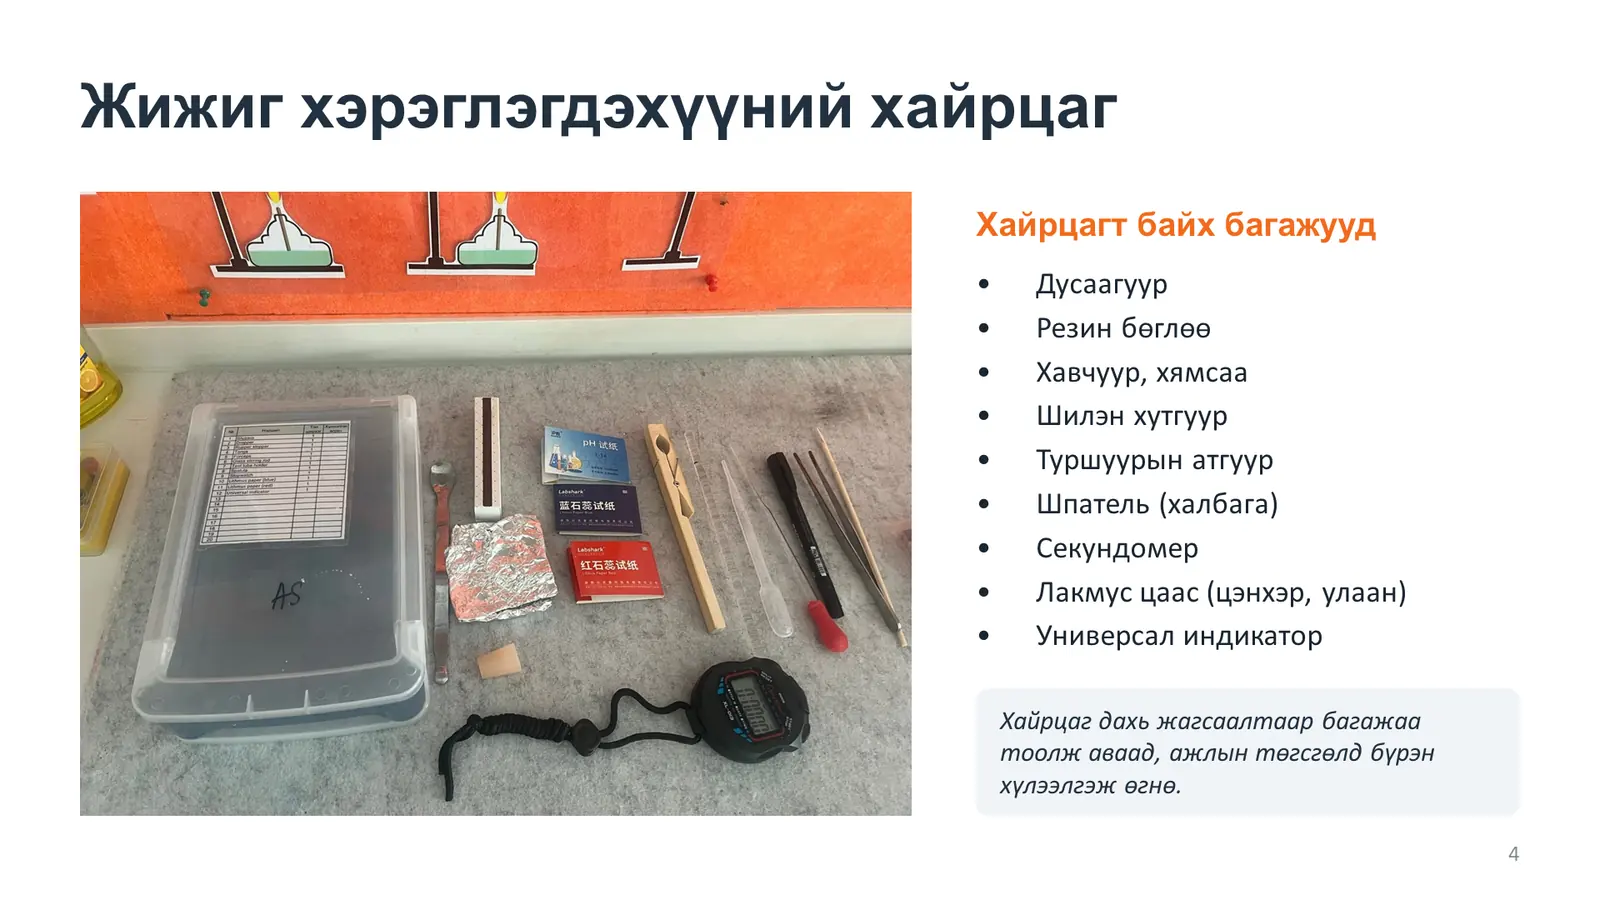
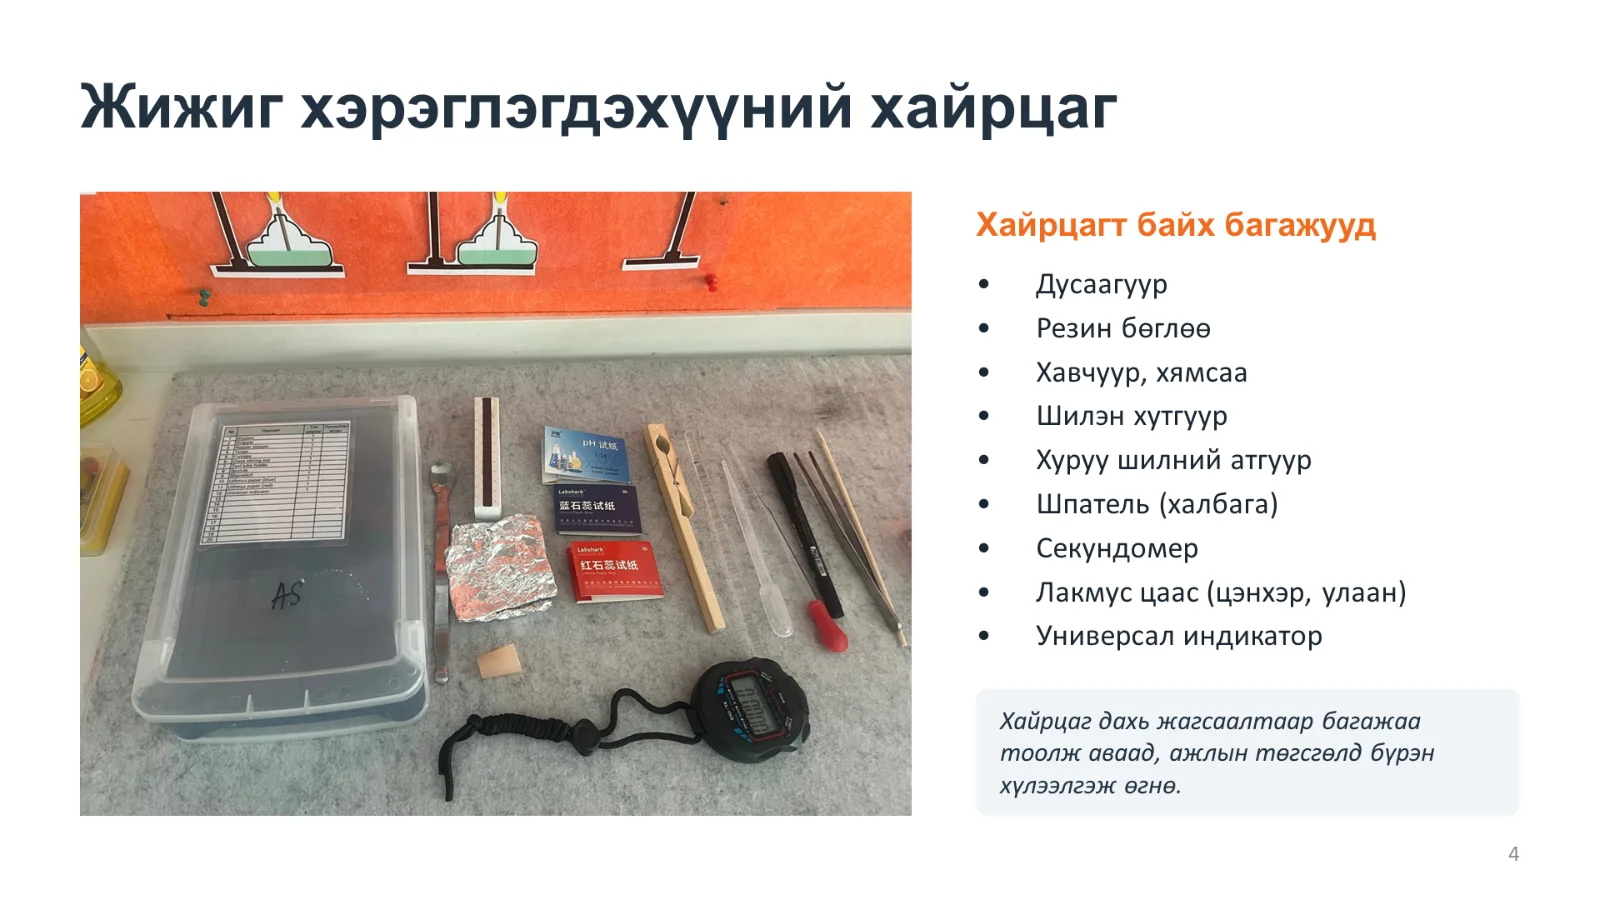
Say «хуруу шил» instead of «туршуур» in the lab safety rules

Changed region(s): [[0.625, 0.4978, 0.8125, 0.5289]]

diff --git a/src/exams/examSafety.ts b/src/exams/examSafety.ts
@@ -14,8 +14,8 @@ const slideText = [
   'Химийн лабораторийн аюулгүй ажиллагааны дүрэм. Сургуулийн химийн лабораторид мөрдөх журам.',
   'Лабораторид орохын өмнө. Зөвшөөрөлгүй орохгүй: багшийн зөвшөөрөлгүйгээр лабораторид орохгүй, туршилт эхлүүлэхгүй. Зааврыг уншина: туршилтын заавартай урьдчилан танилцаж, алхам бүрийг ойлгосон байна. Хоол, ундаа хориотой: лабораторид хоол идэх, ус уух, бохь зажлахыг хориглоно. Зөв хувцаслана: урт үсээ боож, хаалттай гутал өмсөнө, халаадаа заавал өмсөнө. Аюулгүйн хэрэгслээ мэд: нүд угаагуур, гал унтраагуур, гарц хаана байгааг мэдэж ав. Ширээгээ цэгцтэй байлга: ажлын ширээн дээр зөвхөн хэрэгтэй багаж, заавраа тавина.',
   'Хамгаалах хувцас. 1. Халаадаа заавал өмс: цагаан халаадаа өмсөж, товчийг бүрэн товчилно. 2. Нүд, гараа хамгаал: хүчил, шүлт, халаах туршилтын үед хамгаалалтын шил, бээлий зүүнэ. 3. Гадуур өмсөхгүй: халаадаа лабораториос гадуур өмсөж явахгүй, дууссаны дараа өлгүүрт өлгөнө. 4. Бохирдвол мэдэгд: бодис асгарч бохирдсон халаадыг даруй тайлж, багшид мэдэгдэнэ.',
-  'Жижиг хэрэглэгдэхүүний хайрцаг. Хайрцагт байх багажууд: дусаагуур, резин бөглөө, хавчуур, хямсаа, шилэн хутгуур, туршуурын атгуур, шпатель (халбага), секундомер, лакмус цаас (цэнхэр, улаан), универсал индикатор. Хайрцаг дахь жагсаалтаар багажаа тоолж аваад, ажлын төгсгөлд бүрэн хүлээлгэж өгнө.',
-  'Бодис, багажтай ажиллах дүрэм. Бодисыг амсаж, гараар хүрч болохгүй. Үнэрлэхдээ гараараа сэвэлж, холоос үнэрлэнэ. Бодисыг шпатель, дусаагуураар авна; илүү гарсныг буцааж саванд хийхгүй. Туршуурыг халаахдаа амсрыг өөрөөсөө болон бусдаас холдуулна. Шилэн эдлэл хагарвал гараар түүхгүй, багшид мэдэгдэнэ. Хүчил шингэлэхдээ хүчлийг ус руу аажмаар нэмнэ, эсрэгээр хийхгүй.',
+  'Жижиг хэрэглэгдэхүүний хайрцаг. Хайрцагт байх багажууд: дусаагуур, резин бөглөө, хавчуур, хямсаа, шилэн хутгуур, хуруу шилний атгуур, шпатель (халбага), секундомер, лакмус цаас (цэнхэр, улаан), универсал индикатор. Хайрцаг дахь жагсаалтаар багажаа тоолж аваад, ажлын төгсгөлд бүрэн хүлээлгэж өгнө.',
+  'Бодис, багажтай ажиллах дүрэм. Бодисыг амсаж, гараар хүрч болохгүй. Үнэрлэхдээ гараараа сэвэлж, холоос үнэрлэнэ. Бодисыг шпатель, дусаагуураар авна; илүү гарсныг буцааж саванд хийхгүй. Хуруу шилийг халаахдаа амсрыг өөрөөсөө болон бусдаас холдуулна. Шилэн эдлэл хагарвал гараар түүхгүй, багшид мэдэгдэнэ. Хүчил шингэлэхдээ хүчлийг ус руу аажмаар нэмнэ, эсрэгээр хийхгүй.',
   'Татах шүүгээ (Fume hood). 1. Хортой, хурц үнэртэй хий ялгаруулах туршилтыг зөвхөн татах шүүгээнд хийнэ. 2. Ажиллахын өмнө сэнс болон гэрлийг асааж, агаар татаж байгааг шалгана. 3. Хаалтын шилийг аль болох доош буулгаж, толгойгоо шүүгээ рүү оруулахгүй. 4. Шүүгээн дотор шаардлагагүй бодис, эд зүйл хадгалахгүй. 5. Ажил дуусмагц цэвэрлэж, сэнс, гэрэл, цахилгааныг унтраана.',
   'Нүд угаагуур (Eyewash). Нүдэнд бодис орвол секунд бүр чухал. 1. Нээх: хар тагийг (PULL) доош татаж нээнэ, ус автоматаар урсана. 2. Угаах: нүдээ хуруугаар томруулж нээгээд, 15-аас доошгүй минут угаана. 3. Мэдэгдэх: багшид даруй мэдэгдэж, эмнэлгийн тусламж авна. Контакт линз зүүдэг бол угааж эхлэхдээ аль болох хурдан авна.',
   'Гал унтраагуур. Нунтаг (BC төрөл) гал унтраагуур — хэрэглэх 3 алхам: 1. Баруун дээд талын хамгаалалтын цагиргийг сугалж авна. 2. Хоолойг галын голомт (доод хэсэг) руу чиглүүлнэ. 3. Бариулыг дарж, галын голомт руу шүршинэ. Гал гарвал юуны өмнө багшид мэдэгдэнэ. Гал томорвол унтраах гэж оролдолгүй, даруй гарч, 101-д залгана.',
@@ -138,7 +138,7 @@ export const safetyQuestions: SafetyQuestion[] = [
   {
     id: 'heatTube',
     slide: 5,
-    question: { en: 'Where do you point the mouth of a test-tube while you heat it?', mn: 'Туршуурыг халаахдаа амсрыг нь хаашаа чиглүүлэх вэ?' },
+    question: { en: 'Where do you point the mouth of a test-tube while you heat it?', mn: 'Хуруу шилийг халаахдаа амсрыг нь хаашаа чиглүүлэх вэ?' },
     options: [
       { en: 'At yourself, so you can see inside', mn: 'Дотрыг нь харахын тулд өөр рүүгээ' },
       { en: 'At the student next to you', mn: 'Хажуугийн сурагч руу' },
